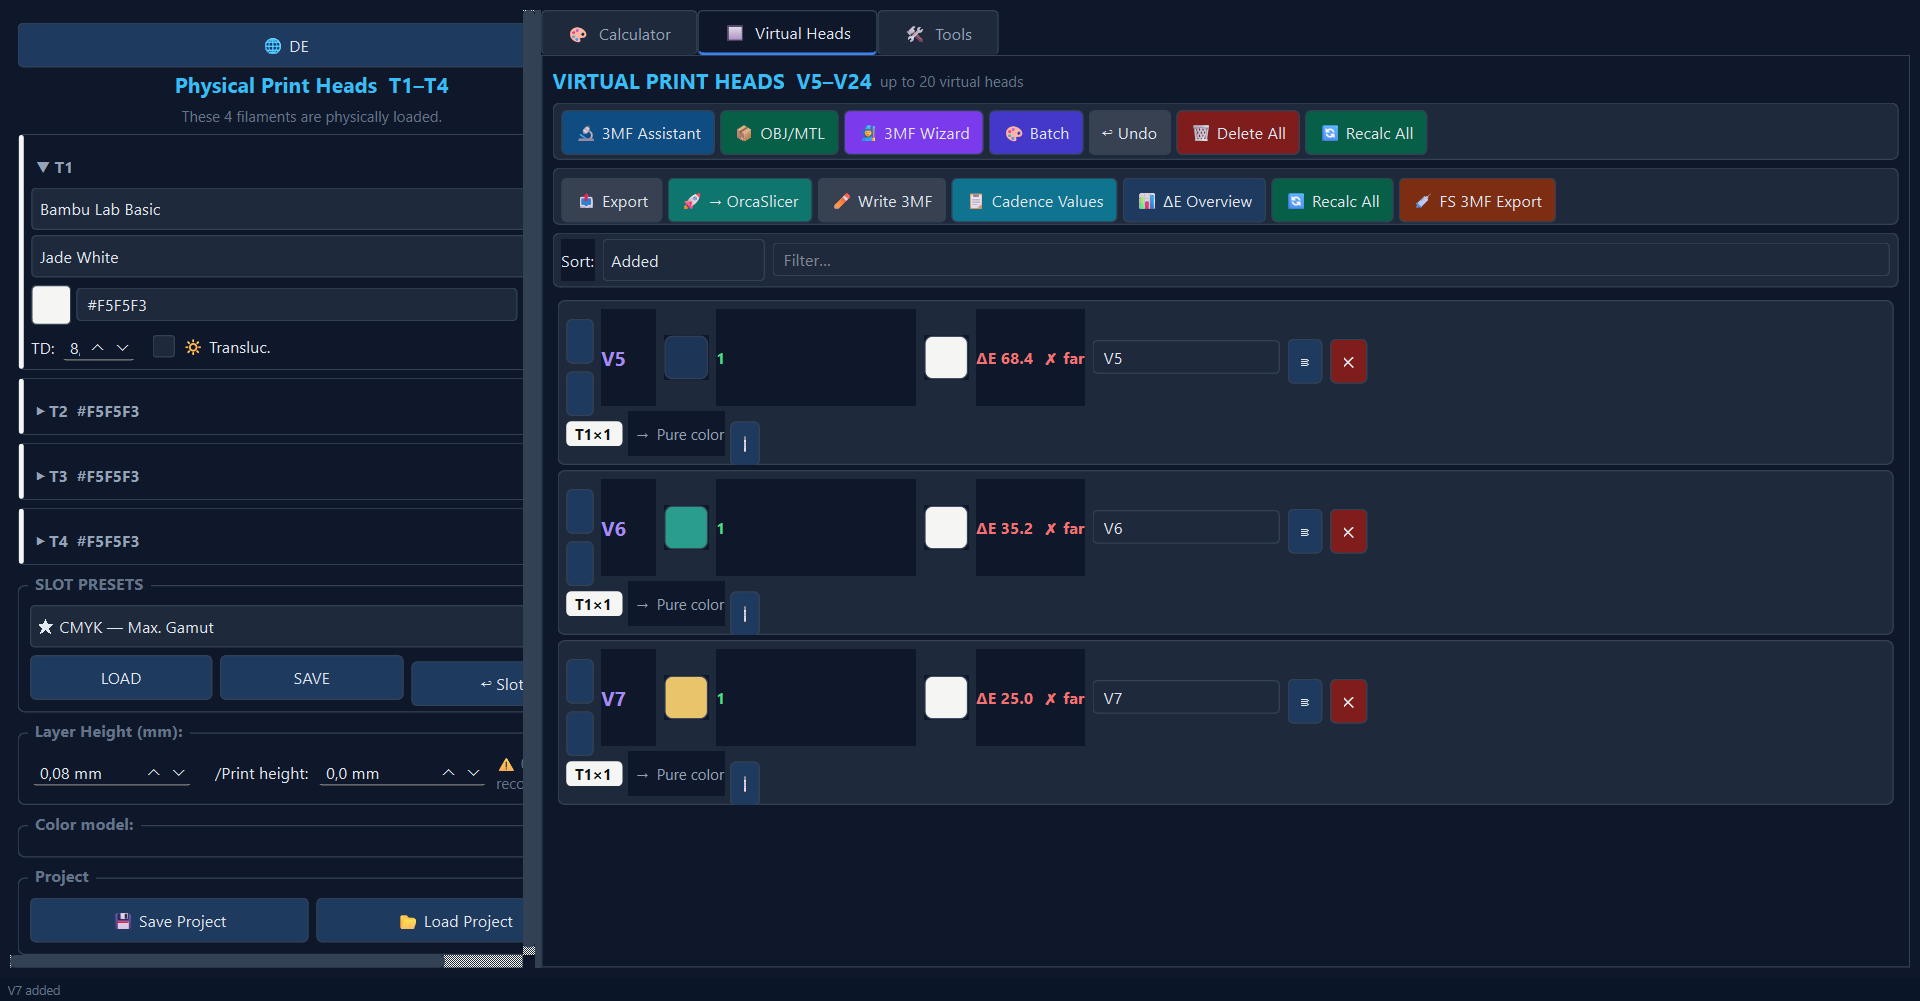
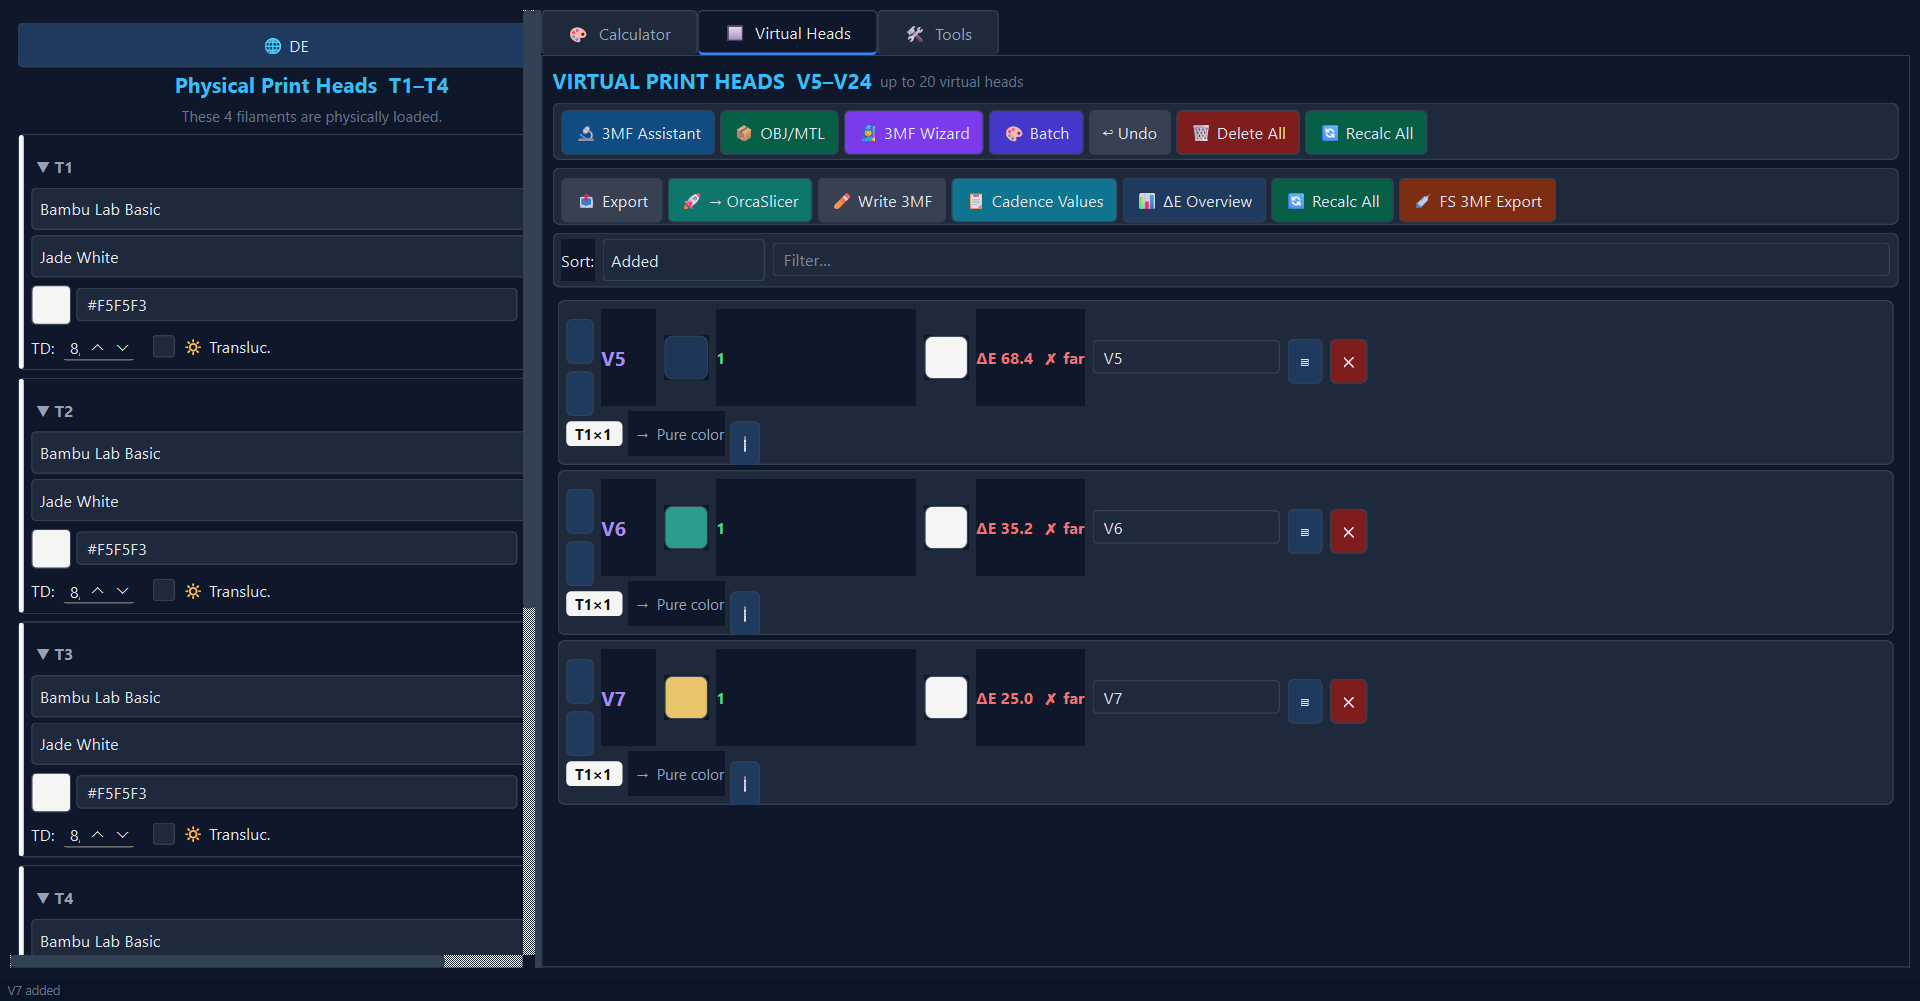
docs: add 3MF tool screenshots (08–11) + refresh all screenshots
- 08_3mf_wizard_step1: ThreeMFWizardDialog load-file step
- 09_fs_3mf_export: FullSpectrumExportDialog
- 11_filament_search: FilamentSearchDialog
- All existing screenshots refreshed with current UI
- README: 3MF wizard, FS export, filament search sections added (EN + DE)
- make_screenshots.py: extended with _grab_3mf_wizard/_grab_fs_export/_grab_filament_search

Changed region(s): [[0.0, 0.4026, 0.2812, 0.96]]

diff --git a/make_screenshots.py b/make_screenshots.py
@@ -6,78 +6,98 @@ Saves PNGs to docs/screenshots/
 import sys, os
 sys.path.insert(0, os.path.dirname(__file__))
 
-from PySide6.QtWidgets import QApplication
+from PySide6.QtWidgets import QApplication, QDialog
 from PySide6.QtCore import QTimer
-from PySide6.QtGui import QScreen
 
 OUT_DIR = os.path.join(os.path.dirname(__file__), "docs", "screenshots")
 os.makedirs(OUT_DIR, exist_ok=True)
 
 app = QApplication(sys.argv)
 
-# Import and create the main window
-from u1_pyside6 import U1App
+from u1_pyside6 import U1App, ThreeMFWizardDialog, FullSpectrumExportDialog
 win = U1App()
 win.resize(1440, 900)
 win.show()
 win.raise_()
 win.activateWindow()
 
-def grab(name):
+_open_dialogs = []   # keep refs alive
+
+def grab(name, widget=None):
     path = os.path.join(OUT_DIR, f"{name}.png")
     app.processEvents()
-    screen = QApplication.primaryScreen()
-    pixmap = screen.grabWindow(win.winId())
+    target = widget or win
+    pixmap = QApplication.primaryScreen().grabWindow(target.winId())
     pixmap.save(path)
     print(f"  Saved: {path}")
 
+def open_and_grab_dialog(dlg_class, name, setup_fn=None, close_after=True):
+    dlg = dlg_class(win)
+    _open_dialogs.append(dlg)
+    if setup_fn:
+        setup_fn(dlg)
+    dlg.show()
+    dlg.raise_()
+    def do_grab():
+        grab(name, dlg)
+        if close_after:
+            dlg.close()
+            _open_dialogs.discard(dlg) if hasattr(_open_dialogs, 'discard') else None
+    QTimer.singleShot(600, do_grab)
+
 def run_sequence():
     steps = [
-        # Force Calculator tab first (override QSettings restore)
-        (300,  lambda: win._tabs.setCurrentIndex(0),                 None),
-        (400,  lambda: None,                                         "01_start"),
+        # ── Calculator screenshots ───────────────────────────────────────────
+        (300,  lambda: win._tabs.setCurrentIndex(0),                   None),
+        (400,  lambda: None,                                           "01_start"),
 
-        # Pick red target → screenshot before calc
-        (200,  lambda: win._apply_target("#E63946"),                 None),
-        (700,  lambda: None,                                         "02_target_red"),
+        (200,  lambda: win._apply_target("#E63946"),                   None),
+        (600,  lambda: None,                                           "02_target_red"),
+        (200,  lambda: win._calc(),                                    None),
+        (1400, lambda: None,                                           "03_result_red"),
 
-        # Calculate red
-        (200,  lambda: win._calc(),                                  None),
-        (1400, lambda: None,                                         "03_result_red"),
+        (200,  lambda: win._apply_target("#1D3557"),                   None),
+        (200,  lambda: win._calc(),                                    None),
+        (1400, lambda: None,                                           "04_result_blue"),
+        (200,  lambda: win.add_virtual(),                              None),
 
-        # Blue target + calc
-        (200,  lambda: win._apply_target("#1D3557"),                 None),
-        (200,  lambda: win._calc(),                                  None),
-        (1400, lambda: None,                                         "04_result_blue"),
-        (200,  lambda: win.add_virtual(),                            None),
+        (200,  lambda: win._apply_target("#2A9D8F"),                   None),
+        (200,  lambda: win._calc(),                                    None),
+        (1400, lambda: None,                                           None),
+        (200,  lambda: win.add_virtual(),                              None),
 
-        # Teal target + calc
-        (200,  lambda: win._apply_target("#2A9D8F"),                 None),
-        (200,  lambda: win._calc(),                                  None),
-        (1400, lambda: None,                                         None),
-        (200,  lambda: win.add_virtual(),                            None),
+        (200,  lambda: win._apply_target("#E9C46A"),                   None),
+        (200,  lambda: win._calc(),                                    None),
+        (1400, lambda: None,                                           None),
+        (200,  lambda: win.add_virtual(),                              None),
 
-        # Yellow target + calc
-        (200,  lambda: win._apply_target("#E9C46A"),                 None),
-        (200,  lambda: win._calc(),                                  None),
-        (1400, lambda: None,                                         None),
-        (200,  lambda: win.add_virtual(),                            None),
+        # ── Virtual Heads tab ────────────────────────────────────────────────
+        (400,  lambda: win._tabs.setCurrentIndex(1),                   None),
+        (600,  lambda: None,                                           "05_virtual_heads"),
 
-        # Virtual Heads tab
-        (400,  lambda: win._tabs.setCurrentIndex(1),                 None),
-        (600,  lambda: None,                                         "05_virtual_heads"),
+        # ── Tools tab ────────────────────────────────────────────────────────
+        (200,  lambda: win._tabs.setCurrentIndex(2),                   None),
+        (600,  lambda: None,                                           "06_tools_tab"),
 
-        # Tools tab
-        (200,  lambda: win._tabs.setCurrentIndex(2),                 None),
-        (600,  lambda: None,                                         "06_tools_tab"),
+        # ── Sidebar with all slots open ───────────────────────────────────────
+        (300,  lambda: win._tabs.setCurrentIndex(0),                   None),
+        (200,  lambda: [win._toggle_slot(i) for i in range(1, 4)],    None),
+        (500,  lambda: None,                                           "07_sidebar_slots"),
 
-        # Back to Calculator, expand all slots
-        (300,  lambda: win._tabs.setCurrentIndex(0),                 None),
-        (200,  lambda: [win._toggle_slot(i) for i in range(1, 4)],  None),
-        (500,  lambda: None,                                         "07_sidebar_slots"),
+        # ── 3MF Wizard dialog (Step 1 — load file) ───────────────────────────
+        (400,  lambda: _grab_3mf_wizard(),                             None),
+
+        # ── FullSpectrum Export dialog ────────────────────────────────────────
+        (1400, lambda: _grab_fs_export(),                              None),
+
+        # ── 3MF Assistant dialog (inline, open via method with dummy colors) ─
+        (1400, lambda: _grab_3mf_assistant(),                          None),
+
+        # ── Filament Search dialog ────────────────────────────────────────────
+        (1400, lambda: _grab_filament_search(),                        None),
 
         # Done
-        (500,  lambda: app.quit(),                                   None),
+        (1800, lambda: app.quit(),                                     None),
     ]
 
     total_delay = 0
@@ -90,6 +110,64 @@ def run_sequence():
                     grab(n)
             QTimer.singleShot(d, cb)
         make_cb(action, name, total_delay)
+
+
+def _grab_3mf_wizard():
+    dlg = ThreeMFWizardDialog(win)
+    _open_dialogs.append(dlg)
+    dlg.show()
+    dlg.raise_()
+    def do_grab():
+        grab("08_3mf_wizard_step1", dlg)
+        dlg.close()
+    QTimer.singleShot(700, do_grab)
+
+
+def _grab_fs_export():
+    dlg = FullSpectrumExportDialog(win)
+    _open_dialogs.append(dlg)
+    dlg.show()
+    dlg.raise_()
+    def do_grab():
+        grab("09_fs_3mf_export", dlg)
+        dlg.close()
+    QTimer.singleShot(700, do_grab)
+
+
+def _grab_3mf_assistant():
+    """Open the 3MF color assistant with dummy colors (no file needed)."""
+    dummy_colors = ["#E63946", "#1D3557", "#2A9D8F", "#E9C46A",
+                    "#F4A261", "#264653", "#A8DADC", "#457B9D"]
+    try:
+        win._open_3mf_with_colors("example_model.3mf", dummy_colors)
+        # find the newly opened dialog
+        for w in app.topLevelWidgets():
+            if isinstance(w, QDialog) and w is not win and w.isVisible():
+                _open_dialogs.append(w)
+                def do_grab(dlg=w):
+                    grab("10_3mf_assistant", dlg)
+                    QTimer.singleShot(400, dlg.close)
+                QTimer.singleShot(700, do_grab)
+                break
+    except Exception as e:
+        print(f"  [skip] 3MF assistant: {e}")
+
+
+def _grab_filament_search():
+    """Open the filament search dialog for slot 0."""
+    try:
+        win._open_filament_search(0)
+        for w in app.topLevelWidgets():
+            if isinstance(w, QDialog) and w is not win and w.isVisible():
+                _open_dialogs.append(w)
+                def do_grab(dlg=w):
+                    grab("11_filament_search", dlg)
+                    QTimer.singleShot(400, dlg.close)
+                QTimer.singleShot(700, do_grab)
+                break
+    except Exception as e:
+        print(f"  [skip] Filament search: {e}")
+
 
 run_sequence()
 sys.exit(app.exec())

diff --git a/README.md b/README.md
@@ -50,6 +50,21 @@ Load brand, filament, hex color and TD value for each physical tool. The sidebar
 
 ![Sidebar Slots](docs/screenshots/07_sidebar_slots.png)
 
+### 3MF Wizard
+Load a `.3mf` file — the wizard extracts all colors and starts batch calculation automatically.
+
+![3MF Wizard](docs/screenshots/08_3mf_wizard_step1.png)
+
+### FullSpectrum 3MF Export
+Inject all virtual heads as `mixed_filament_definitions` directly into a `.3mf` project file.
+
+![FS 3MF Export](docs/screenshots/09_fs_3mf_export.png)
+
+### Filament Search
+Search the full filament library by color, brand, or ΔE proximity to the current target.
+
+![Filament Search](docs/screenshots/11_filament_search.png)
+
 ### Features
 
 | Feature | Description |
@@ -267,6 +282,21 @@ Analyse, Farbgenerierung, Optimierung, Bibliothek und Export — alles an einem 
 Marke, Filament, Hex-Farbe und TD für jeden physischen Kopf eintragen. Die Sidebar ist durch Ziehen verbreiterbar.
 
 ![Slots](docs/screenshots/07_sidebar_slots.png)
+
+#### 3MF-Wizard
+Eine `.3mf`-Datei laden — der Wizard extrahiert alle Farben und startet die Batch-Berechnung automatisch.
+
+![3MF Wizard](docs/screenshots/08_3mf_wizard_step1.png)
+
+#### FullSpectrum 3MF Export
+Alle virtuellen Köpfe als `mixed_filament_definitions` direkt in eine `.3mf`-Projektdatei einschreiben.
+
+![FS 3MF Export](docs/screenshots/09_fs_3mf_export.png)
+
+#### Filament-Suche
+Die gesamte Filamentbibliothek nach Farbe, Marke oder ΔE-Nähe zur Zielfarbe durchsuchen.
+
+![Filament-Suche](docs/screenshots/11_filament_search.png)
 
 ### Farbwissenschaft
 
